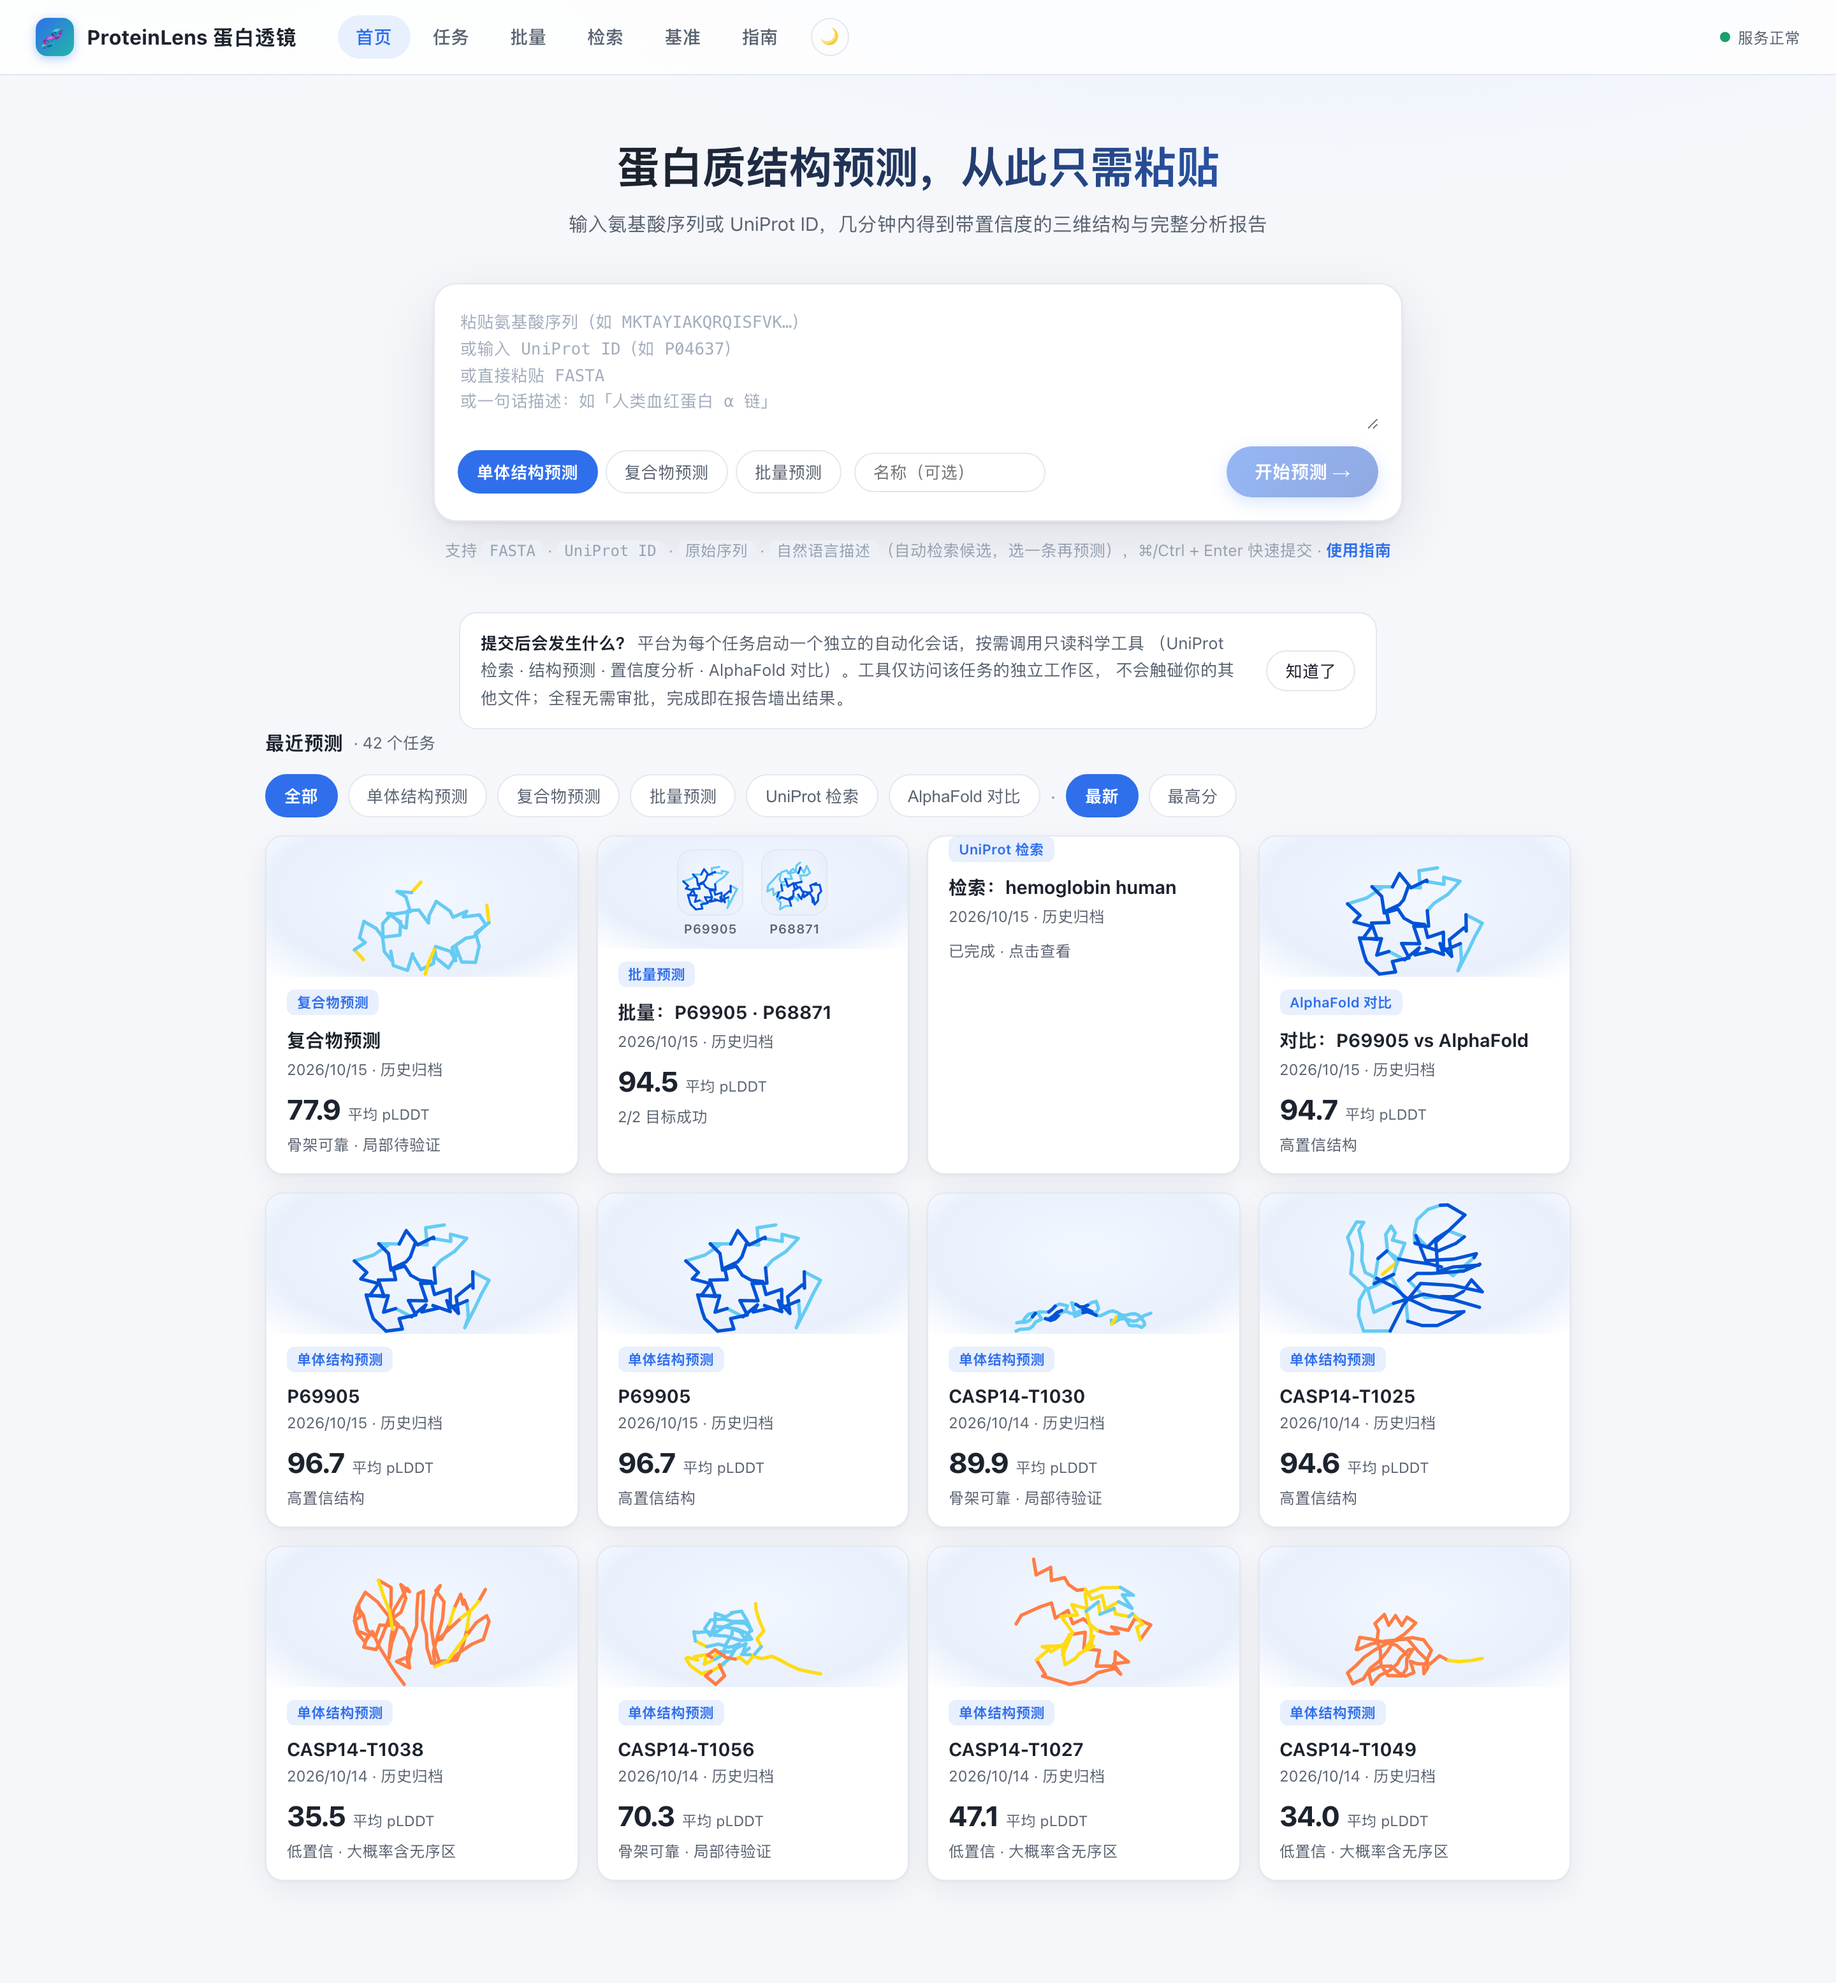
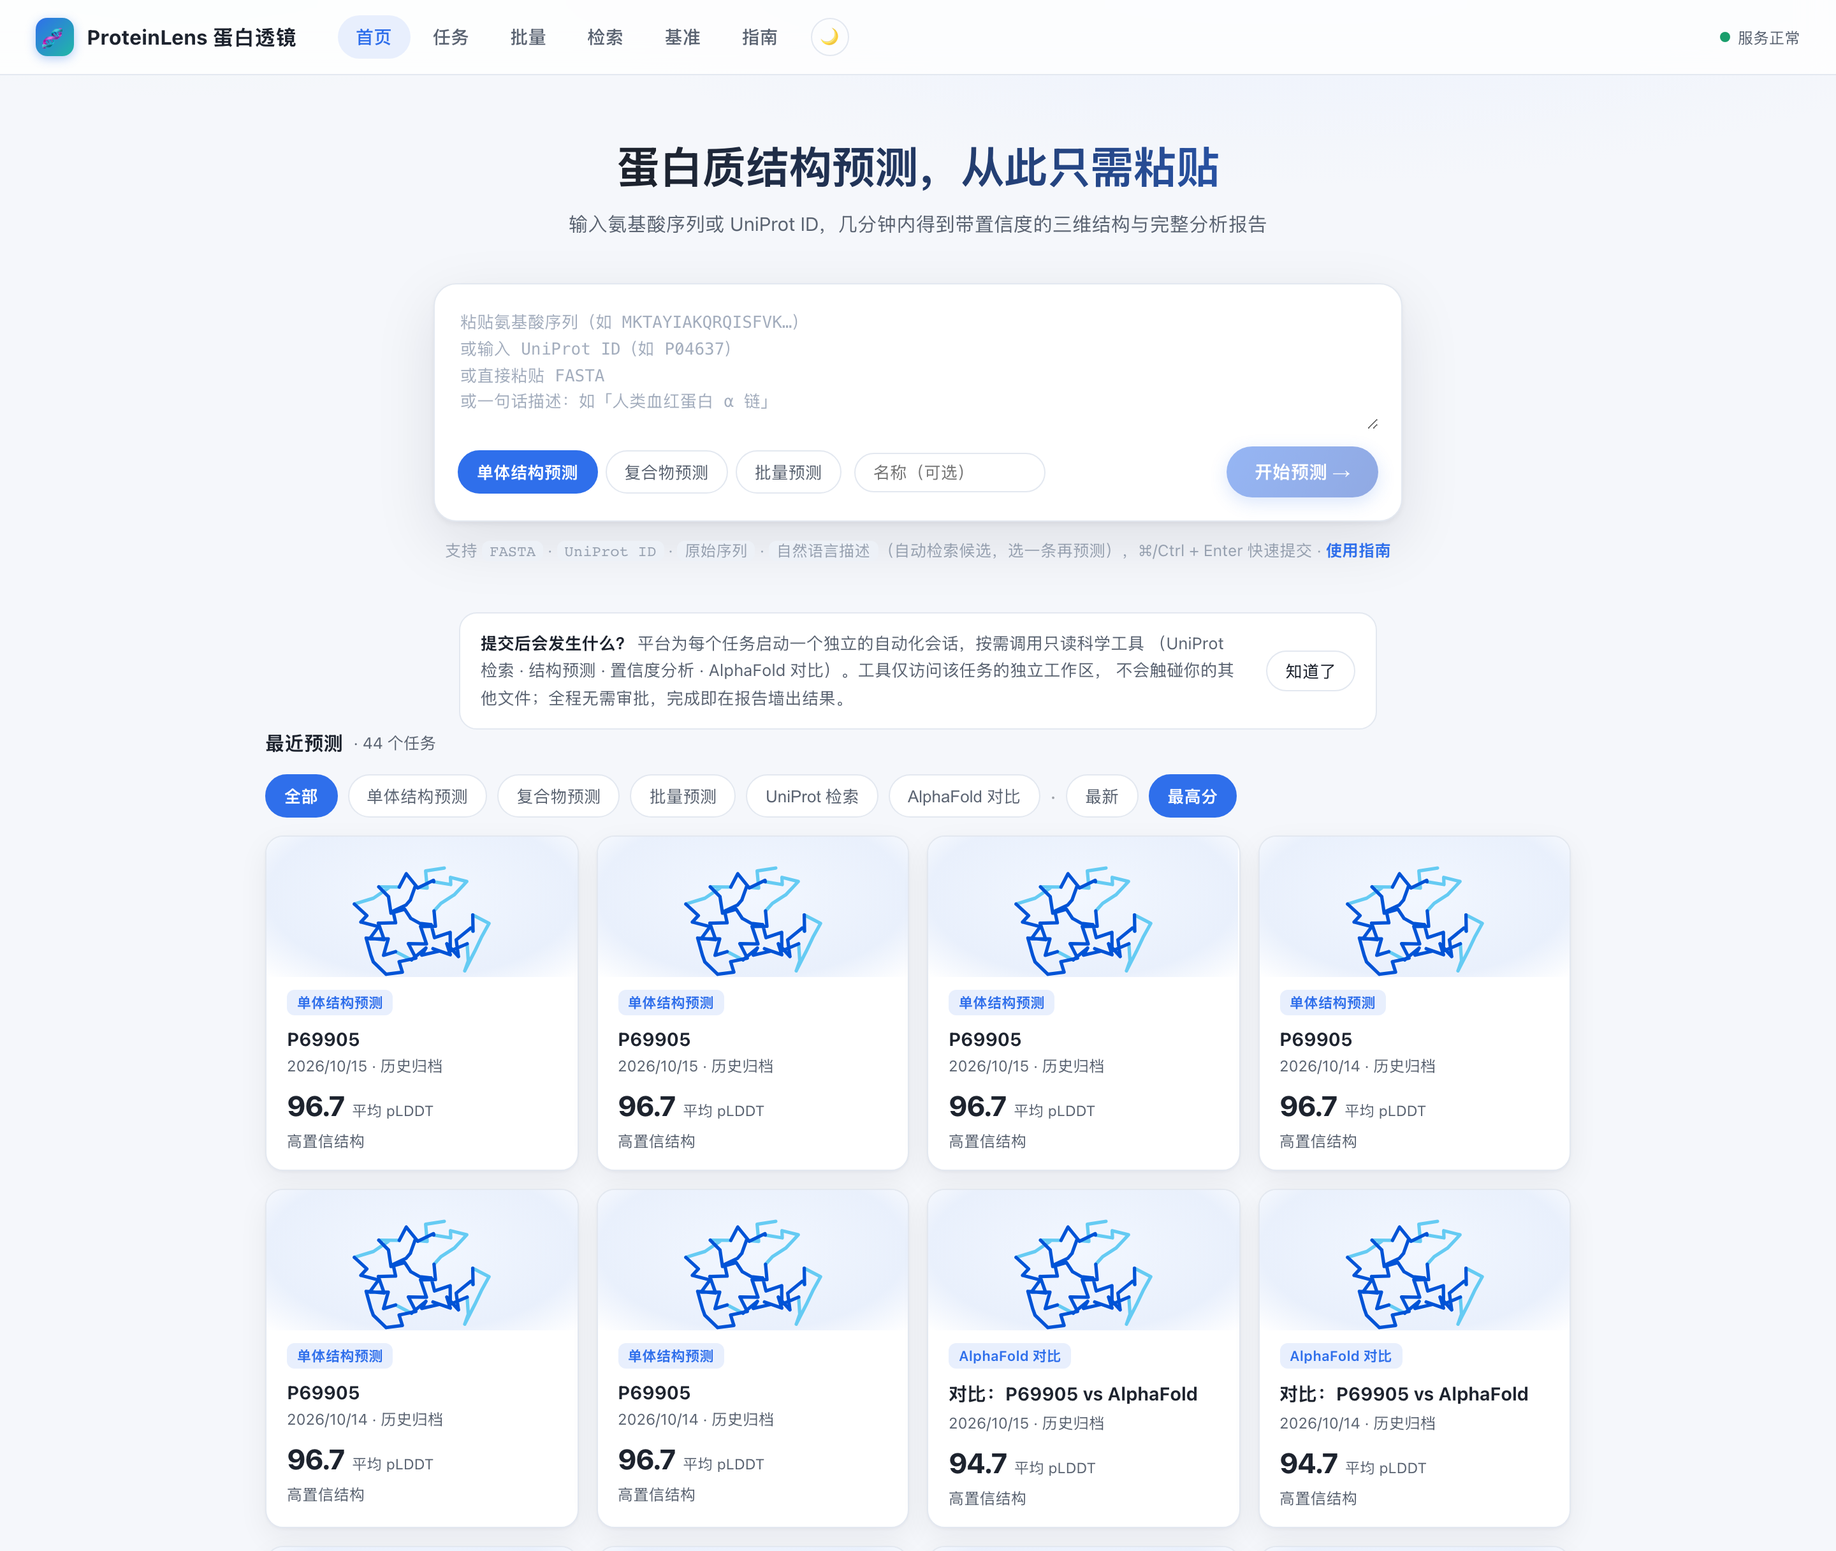
docs(参赛材料): 收敛 4-运行与验证证据，并替换三张自曝实拍图
按同一口径收掉最后一处提交材料里的暴露（4- 是提交材料之一，评委可见）：
- 4-运行与验证证据.md：删去 T1024 失败样例与 commit 链、低分档逐靶列举与
  "9 靶均值 0.62 / 分数谱 0.29–0.95"、表格里未完成靶标行与"状态"列、
  "失败类测试样例"改称"异常类"、探针表里"待运行态/10 靶标 9 靶有分"等表述；
  保留可复核事实：四个 lDDT ≥ 0.8 靶标分数、置信度校准对照、47/13/22 断言、
  正常/边界/异常样例。
- images/shot-bench-2026-10-15.png：由整页实拍（含低分行与 T1024「待运行」行）
  改为裁出头两行 T1025 / T1030 的实拍区域。
- images/shot-bench-calib-2026-10-15.png（新增）：同页 pLDDT 校准直方图实拍。
- images/shot-home-2026-10-15.png：改为按产品自带「最高分」排序重拍的报告墙
  （顶部两排均为 96.7 / 94.7 高分卡），避免原图第三排的 CASP14 低置信卡。
- 6-提交填报单：§八截图列表同步更新。

diff --git a/examples/packages/protein-platform/docs/参赛材料/6-提交填报单.md b/examples/packages/protein-platform/docs/参赛材料/6-提交填报单.md
@@ -206,8 +206,10 @@ API：api.esmatlas.com（ESMFold）、Boltz 托管 API（自购备用）、Agnes
 ```
 平台：ProteinLens 蛋白透镜 http://118.25.194.247/platform/
 链接：同上（Caddy 反代 + 平台登录页；公开可访问）
-截图：参赛材料 `images/shot-bench-2026-10-15.png`（基准页公网实拍：CASP14 逐靶打分表 + pLDDT 校准直方图，2026-10-15 拍于 http://118.25.194.247/platform/#/bench）
-      + 参赛材料 `images/shot-home-2026-10-15.png`（首页公网实拍：提交框 + 「最近预测」42 条归档，含 CASP14 靶标卡与 pLDDT 着色缩略图）
+截图：参赛材料 `images/shot-home-2026-10-15.png`（首页公网实拍：提交框 + 报告墙「最高分」排序，2026-10-15 拍于 http://118.25.194.247/platform/）
+      + 参赛材料 `images/shot-bench-2026-10-15.png`（基准页公网实拍·头部靶标逐靶打分：T1025 Cα-lDDT 0.952 / RMSD 0.65 Å、T1030 0.943）
+      + 参赛材料 `images/shot-bench-calib-2026-10-15.png`（同页 pLDDT 校准直方图实拍）
+      + 参赛材料 `images/fig4.png`（CASP14 实测 Cα-lDDT 头部成绩，由 api/bench 真实数据出图）
       + 参赛材料 images/fig1.png（系统架构图）
 发布日期：2026-10-13（平台公网上线）
 ```
